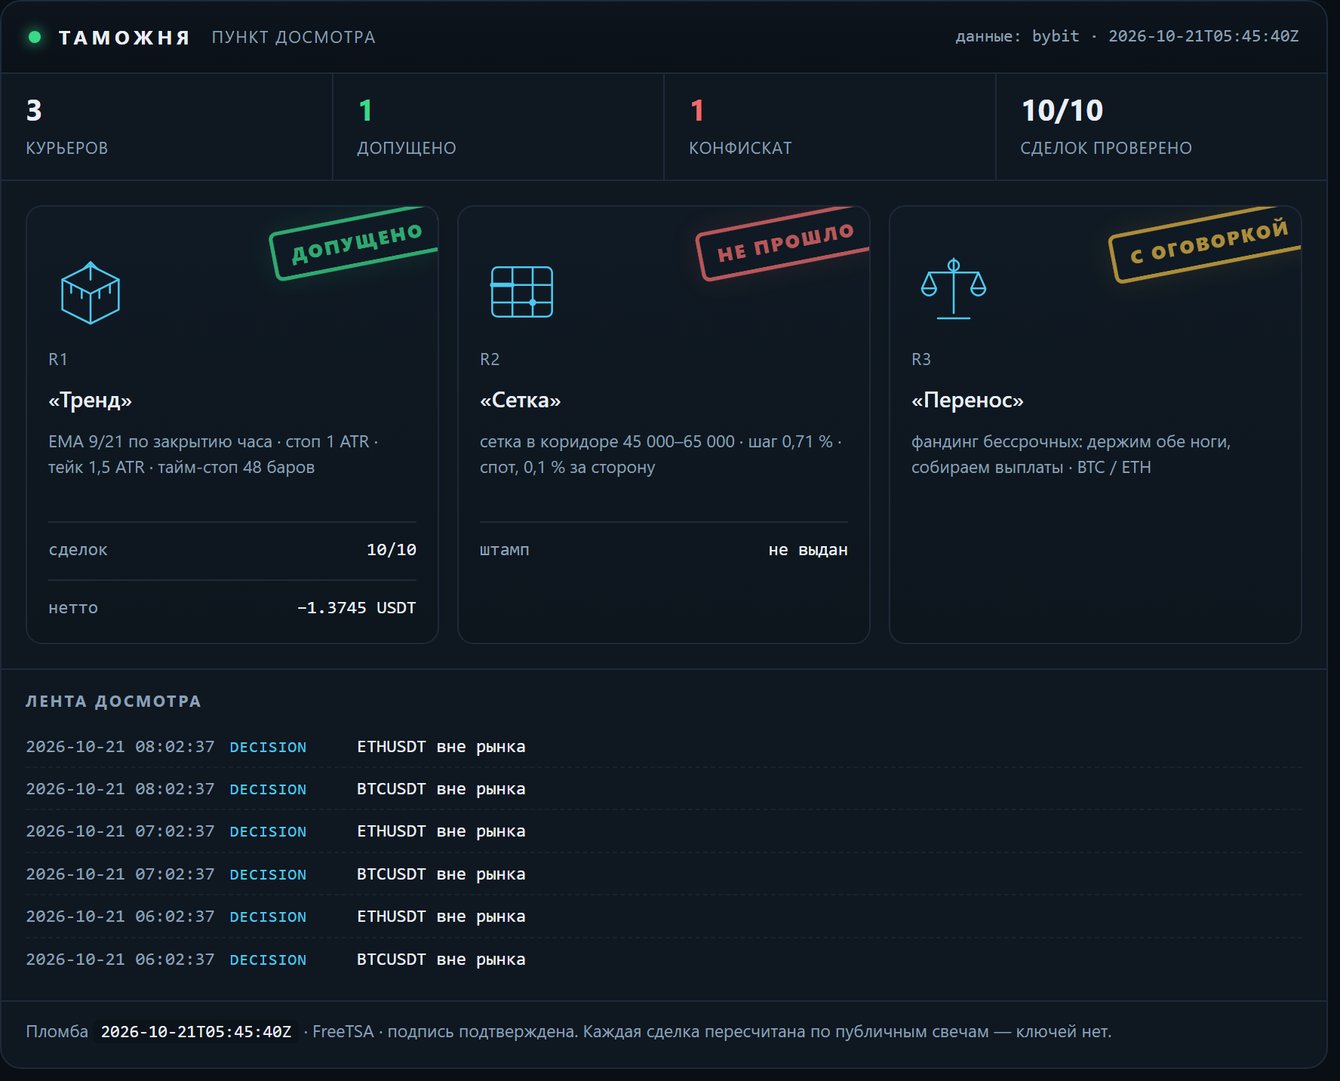
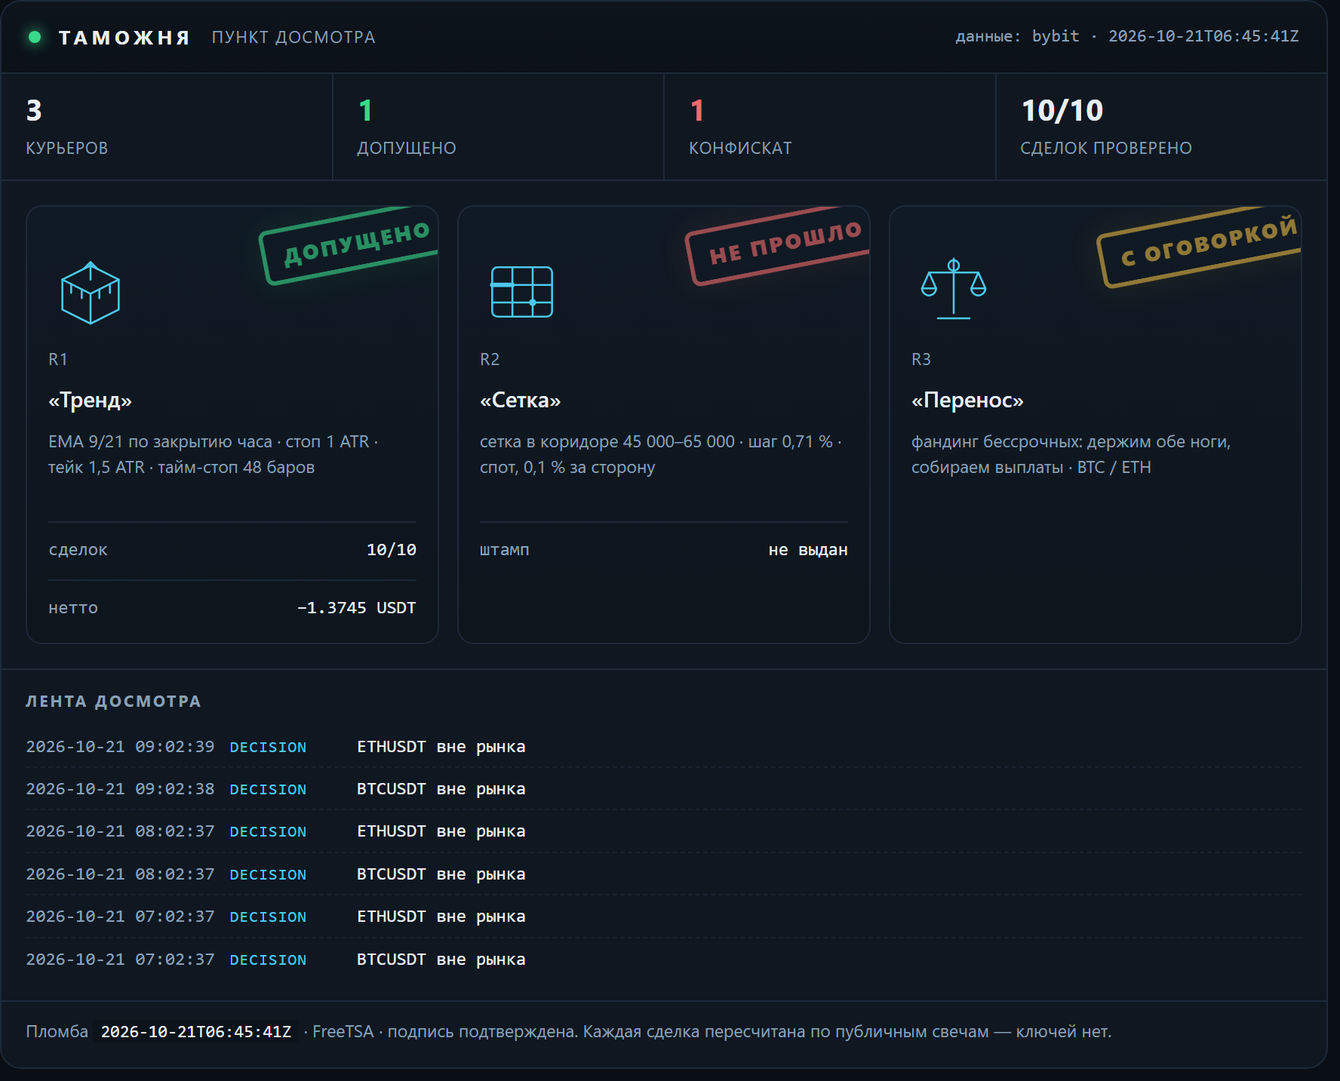
lab: таможня — свежие числа досмотра

Changed region(s): [[0.8052, 0.1842, 0.96, 0.2763], [0.4955, 0.1842, 0.6503, 0.2763], [0.1858, 0.1842, 0.3407, 0.2763]]

diff --git a/docs/customs.html b/docs/customs.html
@@ -16,7 +16,7 @@
   <h1><a href="index.html">Gramwright Lab</a></h1>
   <p>Журнал проверки торговых гипотез: что проверяли, что вышло по факту, сколько съели издержки. Числа берутся из журнала стенда. Не инвестиционная рекомендация.</p>
 </header>
-<h1>Таможня</h1><p class="intro">Пункт досмотра заявленных результатов. Стратегии приезжают с грузом обещаний, и каждая проходит проверку по публичным данным биржи: цены существуют, комиссии по тарифу, нетто сходится. Что прошло — получает штамп. Что не прошло — в конфискат, с причиной. Штамп означает «записи подлинные», а не «стратегия прибыльна».</p><p><img src="img/customs.png" alt="Терминал досмотра: три курьера, штампы, лента событий" style="width:100%;height:auto;border:1px solid var(--line);border-radius:10px"></p><p class="c-note">Сверху — тот же терминал, что собирается из журналов: счётчики, эмблемы курьеров, штампы и лента последних событий. Ниже — то же самое текстом, чтобы читалось с телефона и индексировалось поиском.</p><article><h2>R1 «Тренд» <span class="verdict">— <span class="c-ok">допущено</span></span></h2><p><strong>Правило:</strong> EMA 9/21 по закрытию часа · стоп 1 ATR · тейк 1,5 ATR · тайм-стоп 48 баров</p><p><strong>Декларация:</strong> Заявлено до прогона: держать 30 сделок, лимит нотионала 10 % от счёта, стоп дня −1 %. Прибыль не заявлялась — это важно: курьер не обещал доход.</p><p><strong>Проверено по публичным свечам, без ключей:</strong> 10 из 10 сделок. Сумма нетто −1.3745 USDT.</p><ul class="c-chk"><li class="y">BTCUSDT: нетто −0.8746 USDT · комиссии 0.0901 · проверено · с поправкой</li><li class="y">BTCUSDT: нетто −0.5441 USDT · комиссии 0.0896 · проверено</li><li class="y">ETHUSDT: нетто −0.2253 USDT · комиссии 0.0266 · проверено</li><li class="y">ETHUSDT: нетто −0.1513 USDT · комиссии 0.0265 · проверено</li><li class="y">ETHUSDT: нетто +0.1984 USDT · комиссии 0.0262 · проверено</li><li class="y">ETHUSDT: нетто +0.1617 USDT · комиссии 0.0260 · проверено</li><li class="y">ETHUSDT: нетто +0.2645 USDT · комиссии 0.0263 · проверено</li><li class="y">BTCUSDT: нетто +0.6246 USDT · комиссии 0.0897 · проверено</li><li class="y">BTCUSDT: нетто −0.5881 USDT · комиссии 0.0910 · проверено</li><li class="y">ETHUSDT: нетто −0.2403 USDT · комиссии 0.0270 · проверено</li></ul><p class="tags">журнал sha256 28df31d11dad54eb… · проверяльщик verify-1</p><p class="c-note">Штамп означает: записи подлинные, а не что стратегия прибыльна. Курьер в минусе, и минус тоже стоит на штампе — иначе это была бы не проверка, а реклама.</p><p class="tags">источник: verify-report.json</p></article><article><h2>R2 «Сетка» <span class="verdict">— <span class="c-bad">не прошло</span></span></h2><p><strong>Правило:</strong> сетка в коридоре 45 000–65 000 · шаг 0,71 % · спот, 0,1 % за сторону</p><p><strong>Декларация:</strong> Заявлено: «44 % урожая уходит бирже в виде комиссий». Кроме того — перевес над простым владением монетой.</p><p><strong>Что сошлось:</strong></p><ul class="c-chk"><li class="y">сами числа пересчитаны и воспроизводятся: коридор 45–65k был активен 23 % всей истории и 28 % последних двух лет</li></ul><p><strong>Что не сошлось:</strong></p><ul class="c-chk"><li class="n">44 % не подтвердилось: при шаге 0,71 % и тарифе 0,1 % комиссия съедает 28,3 % шага. Чтобы получить 44 %, нужен шаг 0,45 % — это около 80 уровней, а не 50</li><li class="n">от урожая доля комиссий 85,5 % за всю историю и 49,6 % за последние два года — тоже не 44 %</li><li class="n">перевес над владением посчитан на тарифе 0,055 %: при нём +1,32 п. п., на розничном 0,1 % — −0,72 п. п. То есть перевес исчезает</li><li class="n">семилетний тест стартовал в сентябре 2019 при биткоине около 10 000 — ниже коридора. Он говорит, что фиксированный коридор не подходит для периода, а не что сетка отстаёт</li></ul><p class="tags">источник: lab_grid.py, пересчёт 17.10.2026</p></article><article><h2>R3 «Перенос» <span class="verdict">— <span class="c-warn">с оговоркой</span></span></h2><p><strong>Правило:</strong> фандинг бессрочных: держим обе ноги, собираем выплаты · BTC / ETH</p><p><strong>Декларация:</strong> Заявлено: около 11,9 % в год от выплат фандинга при просадке выплатной кривой меньше 2 %.</p><p><strong>Что сошлось:</strong></p><ul class="c-chk"><li class="y">выплаты взяты из публичной истории биржи, ключей не нужно: BTC — 7 190 выплат с 25.03.2020, ETH — 6 561 с 21.10.2020</li><li class="y">сумма сходится: +83,4 % и +83,2 % за 6,6 и 6,0 года — те самые ~11,9 % в год</li><li class="y">худшая просадка выплатной кривой: −1,65 % и −1,97 %</li></ul><p><strong>Что не сошлось:</strong></p><ul class="c-chk"><li class="n">оговорка 1: премию сжали — 2021 год дал +38,3 %, 2026 — +1,96 %. Прошлое не повторяется</li><li class="n">оговорка 2: вход-выход стоит около 0,31 %, капитала нужно 1,2 от нотионала, текущий базис −0,082 % против входа</li><li class="n">оговорка 3: риск площадки. История FTX в этой же таблице выглядела так же прилично</li></ul><p class="tags">источник: публичная история фандинга Bybit, замер 17.10.2026</p></article><div class="c-conf"><h3>Конфискат</h3><p><strong>«Сетка»: заявленные 44 % комиссий не подтвердились.</strong> Досмотр показал 28,3 % от шага и 85,5 % от урожая — цифра хуже заявленной по форме, но лучше по смыслу: сетку убивает не размер шага, а то, что урожай почти весь уходит в комиссии. Это и вышло в выпуск — с поправкой, а не с красивой цифрой.</p></div><p class="c-note">Пломба: <code>2026-10-21T05:45:40Z</code> · нотариус FreeTSA · Oct 21 05:45:40 2026 GMT · подпись подтверждена. Манифест скрепляет отчёт проверки, журнал сделок и декларации курьеров: подменишь любую цифру — пломба перестанет сходиться.</p><p class="c-note">Досмотр идёт по публичным минутным свечам и публичной истории фандинга — ключей у проверяющего нет, и он может повторить проверку сам.</p><p class="c-note">Контент образовательный, не является инвестиционной рекомендацией. Торговля связана с риском потери капитала.</p>
+<h1>Таможня</h1><p class="intro">Пункт досмотра заявленных результатов. Стратегии приезжают с грузом обещаний, и каждая проходит проверку по публичным данным биржи: цены существуют, комиссии по тарифу, нетто сходится. Что прошло — получает штамп. Что не прошло — в конфискат, с причиной. Штамп означает «записи подлинные», а не «стратегия прибыльна».</p><p><img src="img/customs.png" alt="Терминал досмотра: три курьера, штампы, лента событий" style="width:100%;height:auto;border:1px solid var(--line);border-radius:10px"></p><p class="c-note">Сверху — тот же терминал, что собирается из журналов: счётчики, эмблемы курьеров, штампы и лента последних событий. Ниже — то же самое текстом, чтобы читалось с телефона и индексировалось поиском.</p><article><h2>R1 «Тренд» <span class="verdict">— <span class="c-ok">допущено</span></span></h2><p><strong>Правило:</strong> EMA 9/21 по закрытию часа · стоп 1 ATR · тейк 1,5 ATR · тайм-стоп 48 баров</p><p><strong>Декларация:</strong> Заявлено до прогона: держать 30 сделок, лимит нотионала 10 % от счёта, стоп дня −1 %. Прибыль не заявлялась — это важно: курьер не обещал доход.</p><p><strong>Проверено по публичным свечам, без ключей:</strong> 10 из 10 сделок. Сумма нетто −1.3745 USDT.</p><ul class="c-chk"><li class="y">BTCUSDT: нетто −0.8746 USDT · комиссии 0.0901 · проверено · с поправкой</li><li class="y">BTCUSDT: нетто −0.5441 USDT · комиссии 0.0896 · проверено</li><li class="y">ETHUSDT: нетто −0.2253 USDT · комиссии 0.0266 · проверено</li><li class="y">ETHUSDT: нетто −0.1513 USDT · комиссии 0.0265 · проверено</li><li class="y">ETHUSDT: нетто +0.1984 USDT · комиссии 0.0262 · проверено</li><li class="y">ETHUSDT: нетто +0.1617 USDT · комиссии 0.0260 · проверено</li><li class="y">ETHUSDT: нетто +0.2645 USDT · комиссии 0.0263 · проверено</li><li class="y">BTCUSDT: нетто +0.6246 USDT · комиссии 0.0897 · проверено</li><li class="y">BTCUSDT: нетто −0.5881 USDT · комиссии 0.0910 · проверено</li><li class="y">ETHUSDT: нетто −0.2403 USDT · комиссии 0.0270 · проверено</li></ul><p class="tags">журнал sha256 15f0e2ad50e50fe0… · проверяльщик verify-1</p><p class="c-note">Штамп означает: записи подлинные, а не что стратегия прибыльна. Курьер в минусе, и минус тоже стоит на штампе — иначе это была бы не проверка, а реклама.</p><p class="tags">источник: verify-report.json</p></article><article><h2>R2 «Сетка» <span class="verdict">— <span class="c-bad">не прошло</span></span></h2><p><strong>Правило:</strong> сетка в коридоре 45 000–65 000 · шаг 0,71 % · спот, 0,1 % за сторону</p><p><strong>Декларация:</strong> Заявлено: «44 % урожая уходит бирже в виде комиссий». Кроме того — перевес над простым владением монетой.</p><p><strong>Что сошлось:</strong></p><ul class="c-chk"><li class="y">сами числа пересчитаны и воспроизводятся: коридор 45–65k был активен 23 % всей истории и 28 % последних двух лет</li></ul><p><strong>Что не сошлось:</strong></p><ul class="c-chk"><li class="n">44 % не подтвердилось: при шаге 0,71 % и тарифе 0,1 % комиссия съедает 28,3 % шага. Чтобы получить 44 %, нужен шаг 0,45 % — это около 80 уровней, а не 50</li><li class="n">от урожая доля комиссий 85,5 % за всю историю и 49,6 % за последние два года — тоже не 44 %</li><li class="n">перевес над владением посчитан на тарифе 0,055 %: при нём +1,32 п. п., на розничном 0,1 % — −0,72 п. п. То есть перевес исчезает</li><li class="n">семилетний тест стартовал в сентябре 2019 при биткоине около 10 000 — ниже коридора. Он говорит, что фиксированный коридор не подходит для периода, а не что сетка отстаёт</li></ul><p class="tags">источник: lab_grid.py, пересчёт 17.10.2026</p></article><article><h2>R3 «Перенос» <span class="verdict">— <span class="c-warn">с оговоркой</span></span></h2><p><strong>Правило:</strong> фандинг бессрочных: держим обе ноги, собираем выплаты · BTC / ETH</p><p><strong>Декларация:</strong> Заявлено: около 11,9 % в год от выплат фандинга при просадке выплатной кривой меньше 2 %.</p><p><strong>Что сошлось:</strong></p><ul class="c-chk"><li class="y">выплаты взяты из публичной истории биржи, ключей не нужно: BTC — 7 190 выплат с 25.03.2020, ETH — 6 561 с 21.10.2020</li><li class="y">сумма сходится: +83,4 % и +83,2 % за 6,6 и 6,0 года — те самые ~11,9 % в год</li><li class="y">худшая просадка выплатной кривой: −1,65 % и −1,97 %</li></ul><p><strong>Что не сошлось:</strong></p><ul class="c-chk"><li class="n">оговорка 1: премию сжали — 2021 год дал +38,3 %, 2026 — +1,96 %. Прошлое не повторяется</li><li class="n">оговорка 2: вход-выход стоит около 0,31 %, капитала нужно 1,2 от нотионала, текущий базис −0,082 % против входа</li><li class="n">оговорка 3: риск площадки. История FTX в этой же таблице выглядела так же прилично</li></ul><p class="tags">источник: публичная история фандинга Bybit, замер 17.10.2026</p></article><div class="c-conf"><h3>Конфискат</h3><p><strong>«Сетка»: заявленные 44 % комиссий не подтвердились.</strong> Досмотр показал 28,3 % от шага и 85,5 % от урожая — цифра хуже заявленной по форме, но лучше по смыслу: сетку убивает не размер шага, а то, что урожай почти весь уходит в комиссии. Это и вышло в выпуск — с поправкой, а не с красивой цифрой.</p></div><p class="c-note">Пломба: <code>2026-10-21T06:45:41Z</code> · нотариус FreeTSA · Oct 21 06:45:40 2026 GMT · подпись подтверждена. Манифест скрепляет отчёт проверки, журнал сделок и декларации курьеров: подменишь любую цифру — пломба перестанет сходиться.</p><p class="c-note">Досмотр идёт по публичным минутным свечам и публичной истории фандинга — ключей у проверяющего нет, и он может повторить проверку сам.</p><p class="c-note">Контент образовательный, не является инвестиционной рекомендацией. Торговля связана с риском потери капитала.</p>
 <footer class="site">
   Код стенда и аудитора: <a href="https://github.com/XSlaidx/truth-engine">XSlaidx/truth-engine</a>
   &middot; <a href="graveyard.html">кладбище правил</a>
